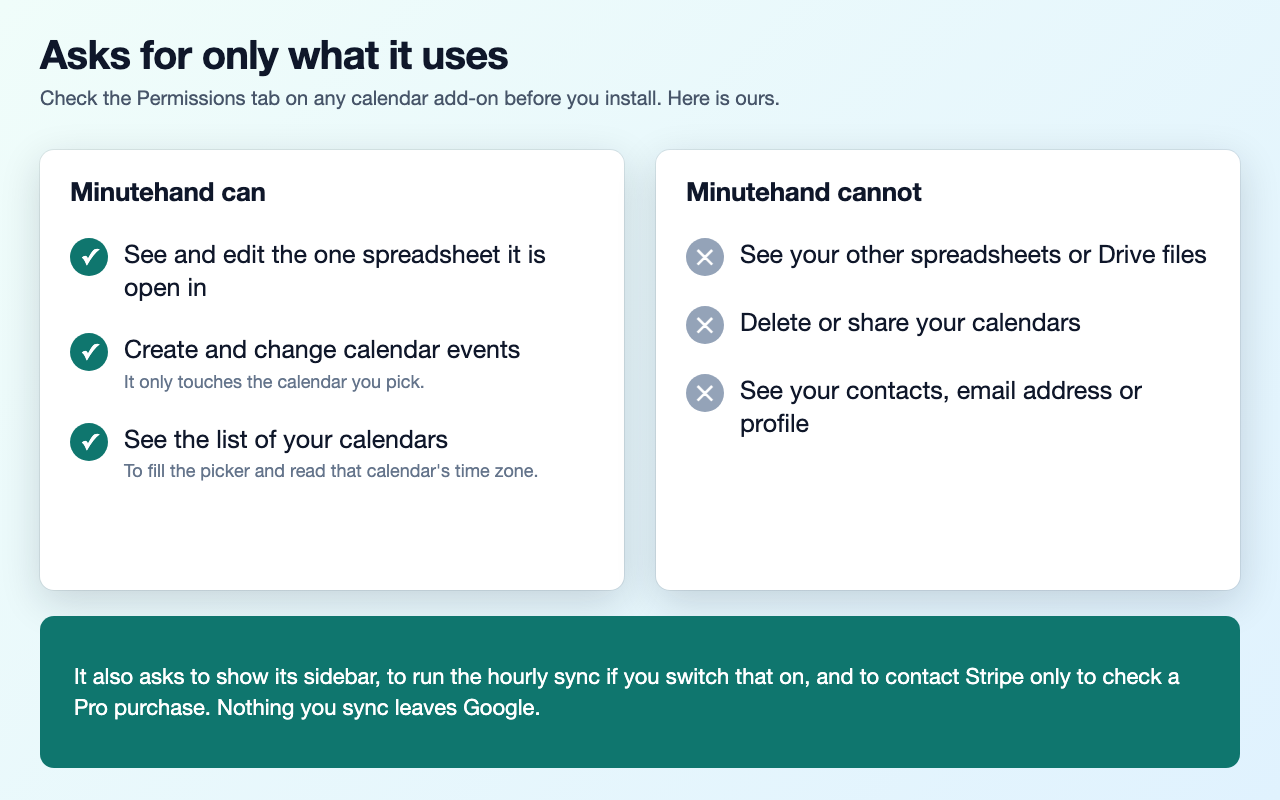
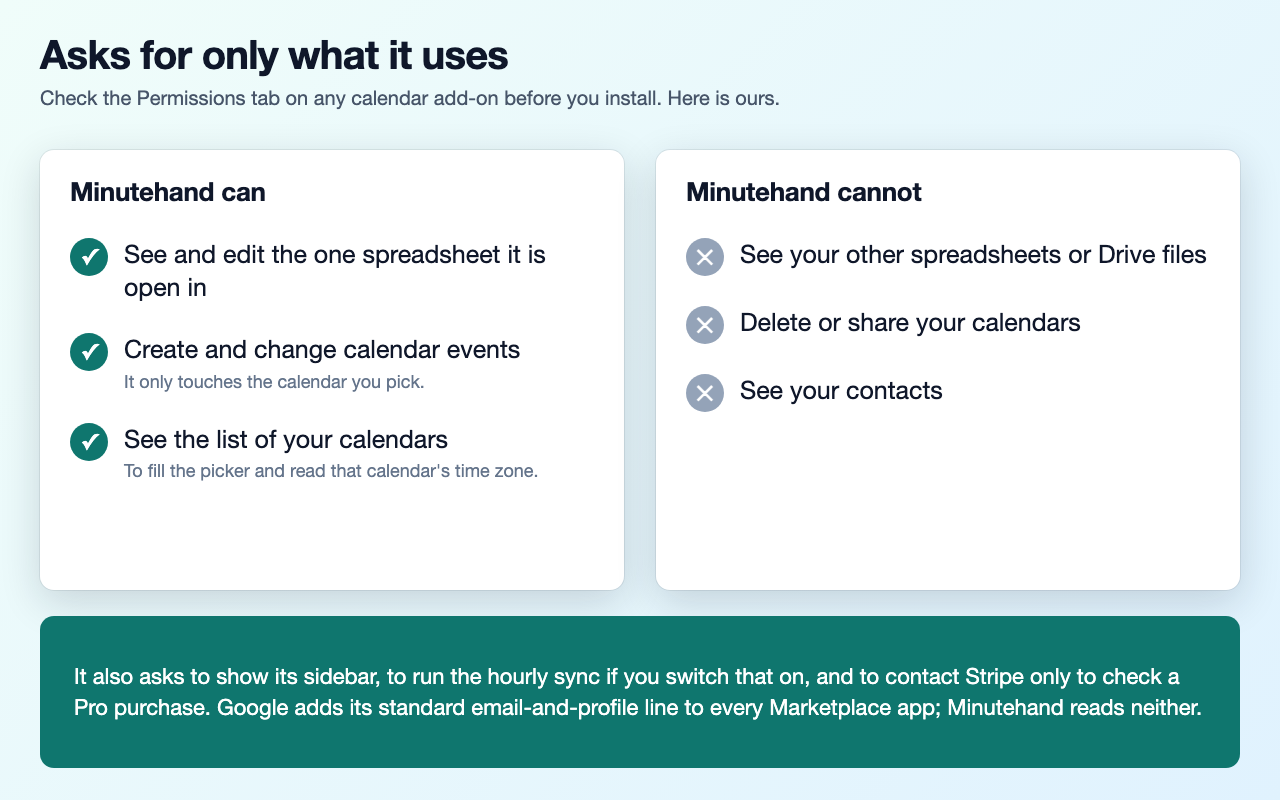
Correct the permissions claims: Google adds email and profile to every Marketplace app

Changed region(s): [[0.1562, 0.875, 0.9375, 0.9062], [0.75, 0.4688, 0.9062, 0.5], [0.5938, 0.5, 0.625, 0.5625]]

diff --git a/docs/privacy.html b/docs/privacy.html
@@ -9,6 +9,7 @@
 <li><strong>Calendar events</strong> (scope: <code>calendar.events</code>). Minutehand creates, updates and deletes events on the calendar you pick, only when you press Sync or turn on auto-sync. It never shares calendars or changes calendar settings.</li>
 <li><strong>Your list of calendars</strong> (scope: <code>calendar.calendarlist.readonly</code>), so you can pick one from a menu and so Minutehand knows that calendar's time zone.</li>
 </ul>
+<p>When you install from the Google Workspace Marketplace, Google also shows two standard permissions that it adds to every Marketplace app: seeing your email address and your basic profile. Minutehand does not read, use or store either.</p>
 <h2>What Minutehand stores</h2>
 <p>Settings (which calendar, which columns), a list of event IDs it created, and a run log are stored inside the spreadsheet's own properties and a hidden "Minutehand Log" sheet. A monthly usage count and, if you upgrade, the email you used at checkout are stored in your Google account's add-on properties. Nothing is stored on servers run by Minutehand.</p>
 <h2>What leaves Google</h2>

diff --git a/docs/index.html b/docs/index.html
@@ -8,7 +8,7 @@
 <li><strong>Times land where you typed them.</strong> Minutehand reads times in your calendar's time zone, not the spreadsheet's hidden one, so nothing ends up three hours off.</li>
 <li><strong>Real spreadsheets.</strong> Formula dates, separate date and time columns, all-day events, any column order.</li>
 <li><strong>Import a date range</strong> of events into the sheet; imported rows stay linked.</li>
-<li><strong>The smallest ask we could make.</strong> It sees only the one spreadsheet it is open in, never your other files. It cannot delete or share your calendars, and it never asks for your contacts, email address or profile.</li>
+<li><strong>The smallest ask we could make.</strong> It sees only the one spreadsheet it is open in, never your other files. It cannot delete or share your calendars, and it never asks for your contacts.</li>
 </ul>
 <h2>Plans</h2>
 <p>Free: 50 event changes a month. Pro: unlimited changes and hourly auto-sync, for one payment. No subscription.</p>

diff --git a/LISTING.md b/LISTING.md
@@ -38,7 +38,7 @@ Before you install any calendar add-on, open its Permissions tab. Minutehand ask
 - Create and change calendar events. It cannot delete or share your calendars, and it only touches the calendar you pick.
 - See the list of your calendars, to fill the picker and read that calendar's time zone.
 
-It does not ask for your contacts, your email address or your profile. It also asks to show its sidebar, to run the hourly sync if you switch that on, and to contact Stripe only to check a Pro purchase. Nothing you sync leaves Google.
+It does not ask for your contacts. Google adds its standard "see your email address and basic profile" lines to every Marketplace app; Minutehand never reads or stores either. It also asks to show its sidebar, to run the hourly sync if you switch that on, and to contact Stripe only to check a Pro purchase. Nothing you sync leaves Google.
 
 PLANS
 
@@ -68,10 +68,11 @@ Google Sheets™, Google Calendar™, Google Drive™ and Google Meet™ are tra
 - The Sheet and sidebar panels are real captures from a live run on 2026-11-10. Headlines, the teal callouts and the permissions slide are added graphics.
 
 **Why this copy (checked 2026-11-10 on the public Permissions tab of each listing):**
-- Sheets2GCal (8M+ installs) asks to see, edit, create and delete all your spreadsheets, plus your email address and profile.
-- Sheet.Cal (25K+) asks to see, edit, share and permanently delete all your calendars, to download your contacts, plus email and profile. It already sells a preview, no duplicates and a log, so those alone are not a wedge against it.
-- Sheet2Cal (27K+) asks to see, edit, share and permanently delete all your calendars, plus email and profile.
+- Sheets2GCal (8M+ installs) asks to see, edit, create and delete all your spreadsheets.
+- Sheet.Cal (25K+) asks to see, edit, share and permanently delete all your calendars, to download your contacts. It already sells a preview, no duplicates and a log, so those alone are not a wedge against it.
+- Sheet2Cal (27K+) asks to see, edit, share and permanently delete all your calendars.
 - Minutehand asks for none of those. The copy never names a rival; it tells the reader where to look.
+- Correction, 2026-11-10: every listing, ours included, also shows "see your email address" and "see your personal info". The Marketplace adds those two by default and they cannot be removed (seen on the App Configuration form). An earlier draft counted them against rivals and claimed Minutehand did not ask for them; both were wrong and are fixed.
 - Not checked: whether rivals place times correctly. The copy therefore claims only what Minutehand does.
 
 **Name check (2026-11-10):** the first working name, Rowcal, was dropped. "rowCall" is a Sheets add-on with 391K+ installs, and "Calrows" is a direct rival. A Marketplace search for "Minutehand" returns nothing, and a web search found no product by that name. No formal trademark search has been run.
